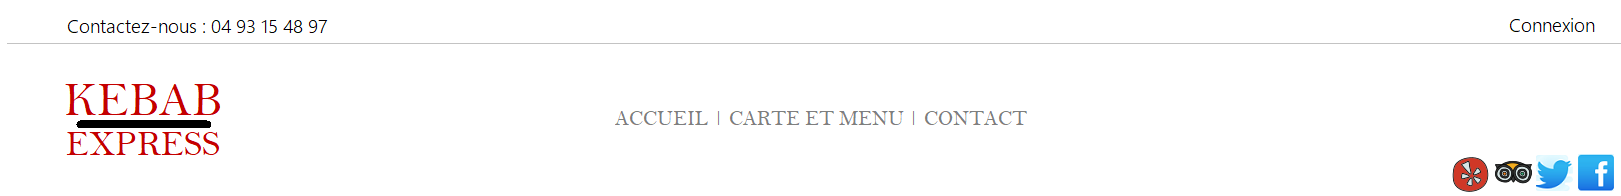
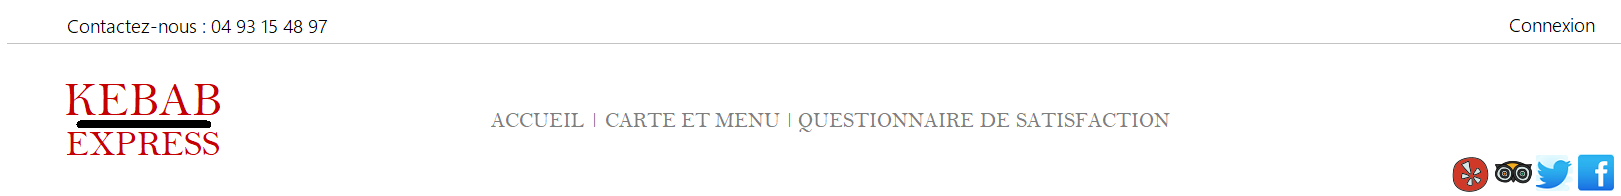
changing the header for adding a link for the satisfaction

Changed region(s): [[0.3085, 0.551, 0.7403, 0.6735]]

diff --git a/html/formulaireInscriptionIframe.html b/html/formulaireInscriptionIframe.html
@@ -1,0 +1,66 @@
+<!DOCTYPE html>
+<html lang="fr">
+<head>
+    <meta charset="UTF-8">
+    <meta name="viewport" content="width=device-width, initial-scale=1.0">
+    <title>Document</title>
+</head>
+<body bgcolor="#FFFFFF">
+    <form action="../indexKebabExpress.html" method="GET" target="_parent">
+
+    <fieldset align="center" >
+        <legend>Formulaire d'enregistrement</legend>
+        <p>
+            <select name="Civilite">
+                <option value="Madame" selected="Madame">Madame</option>
+                <option value="Monsieur">Monsieur</option>
+            </select>
+        </p>
+
+        <p>Nom :</p>
+        <p>
+            <input name="lastname" type="text" tabindex="1" accesskey="A" />
+        </p>
+
+        <p>Prénom :</p>
+        <p>
+            <input name="lastname" type="text" tabindex="2" accesskey="B" />
+        </p>
+
+        <p>Adresse :</p>
+        <p>
+            <input name="address" type="text" tabindex="3" accesskey="C" />
+        </p>
+        <p>Code postal :</p>
+        <p>
+            <input name="lastname" type="text" tabindex="4" accesskey="D" />
+        </p>
+
+        <p>Ville :</p>
+        <p>
+            <input name="lastname" type="text" tabindex="5" accesskey="E" />
+        </p>
+
+        <p>Adresse email :</p>
+        <p>
+            <input name="address" type="text" tabindex="6" accesskey="F" />
+        </p>
+
+        <p>Téléphone :</p>
+        <p>
+            <input name="lastname" type="text" tabindex="7" accesskey="G" />
+        </p>
+        <br>
+        <p> Voulez-vous recevoir nos offres promotionnelles :</p>
+
+        <p>
+            <input type="radio" name="mailing" value="Cd" checked="checked" />Oui</li>
+            <input type="radio" name="mailing" value="Dk" />Non</li>
+        </p>
+        
+        <input type="submit" value="Envoyer" />
+        <input type="reset" value="Recommencer" />
+    </fieldset>
+</form>
+</body>
+</html>

diff --git a/html/header.html b/html/header.html
@@ -10,9 +10,9 @@
 
 		<map name="header-map">
 			<area target="_parent" alt="pageAccueil" title="Accueil" href="../indexKebabExpress.html" coords="65,79,226,159" shape="rect">
-			<area target="_parent" alt="pageAccueil" title="Accueil" href="../indexKebabExpress.html" coords="615,106,708,129" shape="rect">
-			<area target="_parent" alt="pageMenu" title="pageMenu" href="menu.html" coords="730,109,904,127" shape="rect">
-			<area target="" alt="pageContact" title="pageContact" href="" coords="921,107,1032,127" shape="rect">
+			<area target="_parent" alt="Accueil" title="Accueil" href="../indexKebabExpress.html" coords="492,113,581,126" shape="rect">
+			<area target="_parent" alt="Carte et menu" title="Carte et menu" href="menu.html" coords="606,113,778,126" shape="rect">
+			<area target="_parent" alt="Questionnaire de satisfaction" title="Questionnaire de satisfaction" href="questionnaire.html" coords="798,113,1169,129" shape="rect">
 			<area target="_parent" alt="pageConnexion" title="pageConnexion" href="formulaireConnexion.html" coords="1510,16,1600,36" shape="rect">
 			<area target="_blank" alt="Yelp" title="Yelp" href="https://www.yelp.fr/paris" coords="1470,175,18" shape="circle">
 			<area target="_blank" alt="TripAdvisor" title="TripAdvisor" href="https://www.tripadvisor.fr/" coords="1513,159,1530,166,1530,177,1513,182,1497,180,1497,163" shape="poly">

diff --git a/html/formulaireConnexionIframe.html b/html/formulaireConnexionIframe.html
@@ -9,7 +9,6 @@
     <form action="../indexKebabExpress.html" method="GET" target="_parent">
 
     <fieldset>
-       <!-- <legend>d'enregistrement</legend> -->
         <p>&nbsp;&nbsp;&nbsp;&nbsp;&nbsp;E-mail&nbsp;&nbsp;&nbsp;&nbsp;&nbsp;&nbsp;&nbsp;
 					<input name="emailAdress" type="email" required />
         </p>
@@ -17,7 +16,7 @@
         <p>Mot de passe&nbsp;&nbsp;&nbsp;<input name="motDePasse" type="password" required />
         </p>
 				<p align="center">
-					<input type="submit" value="CONNEXION" action="" />
+					<input type="submit" value="CONNEXION" />
 				</p>
 				<p align="center">
 					<a href="formulaire.html" target="_parent" alink="blue" vlink="blue">

diff --git a/html/formulaireInscription.html b/html/formulaireInscription.html
@@ -3,7 +3,7 @@
 
 <head>
 	<meta charset="utf-8">
-	<title>Formulaire de connexion</title>
+	<title>Formulaire d'inscription</title>
 </head>
 
 
@@ -16,13 +16,12 @@
 
 	<br>
 
-	<h1 align ="center">Formulaire de connexion</h1>
+	<h1 align ="center">Formulaire d'inscription</h1>
 
 	<br>
 
 	<div align="center">
-		<iframe src="formulaireConnexionIframe.html" scrolling="no" height="200px" width="350px">
-		</iframe>
+		<iframe src="formulaireInscriptionIframe.html" scrolling="no" height="750px" width="550px" background="#000000"></iframe>
 	</div>
 	
 	<br>
